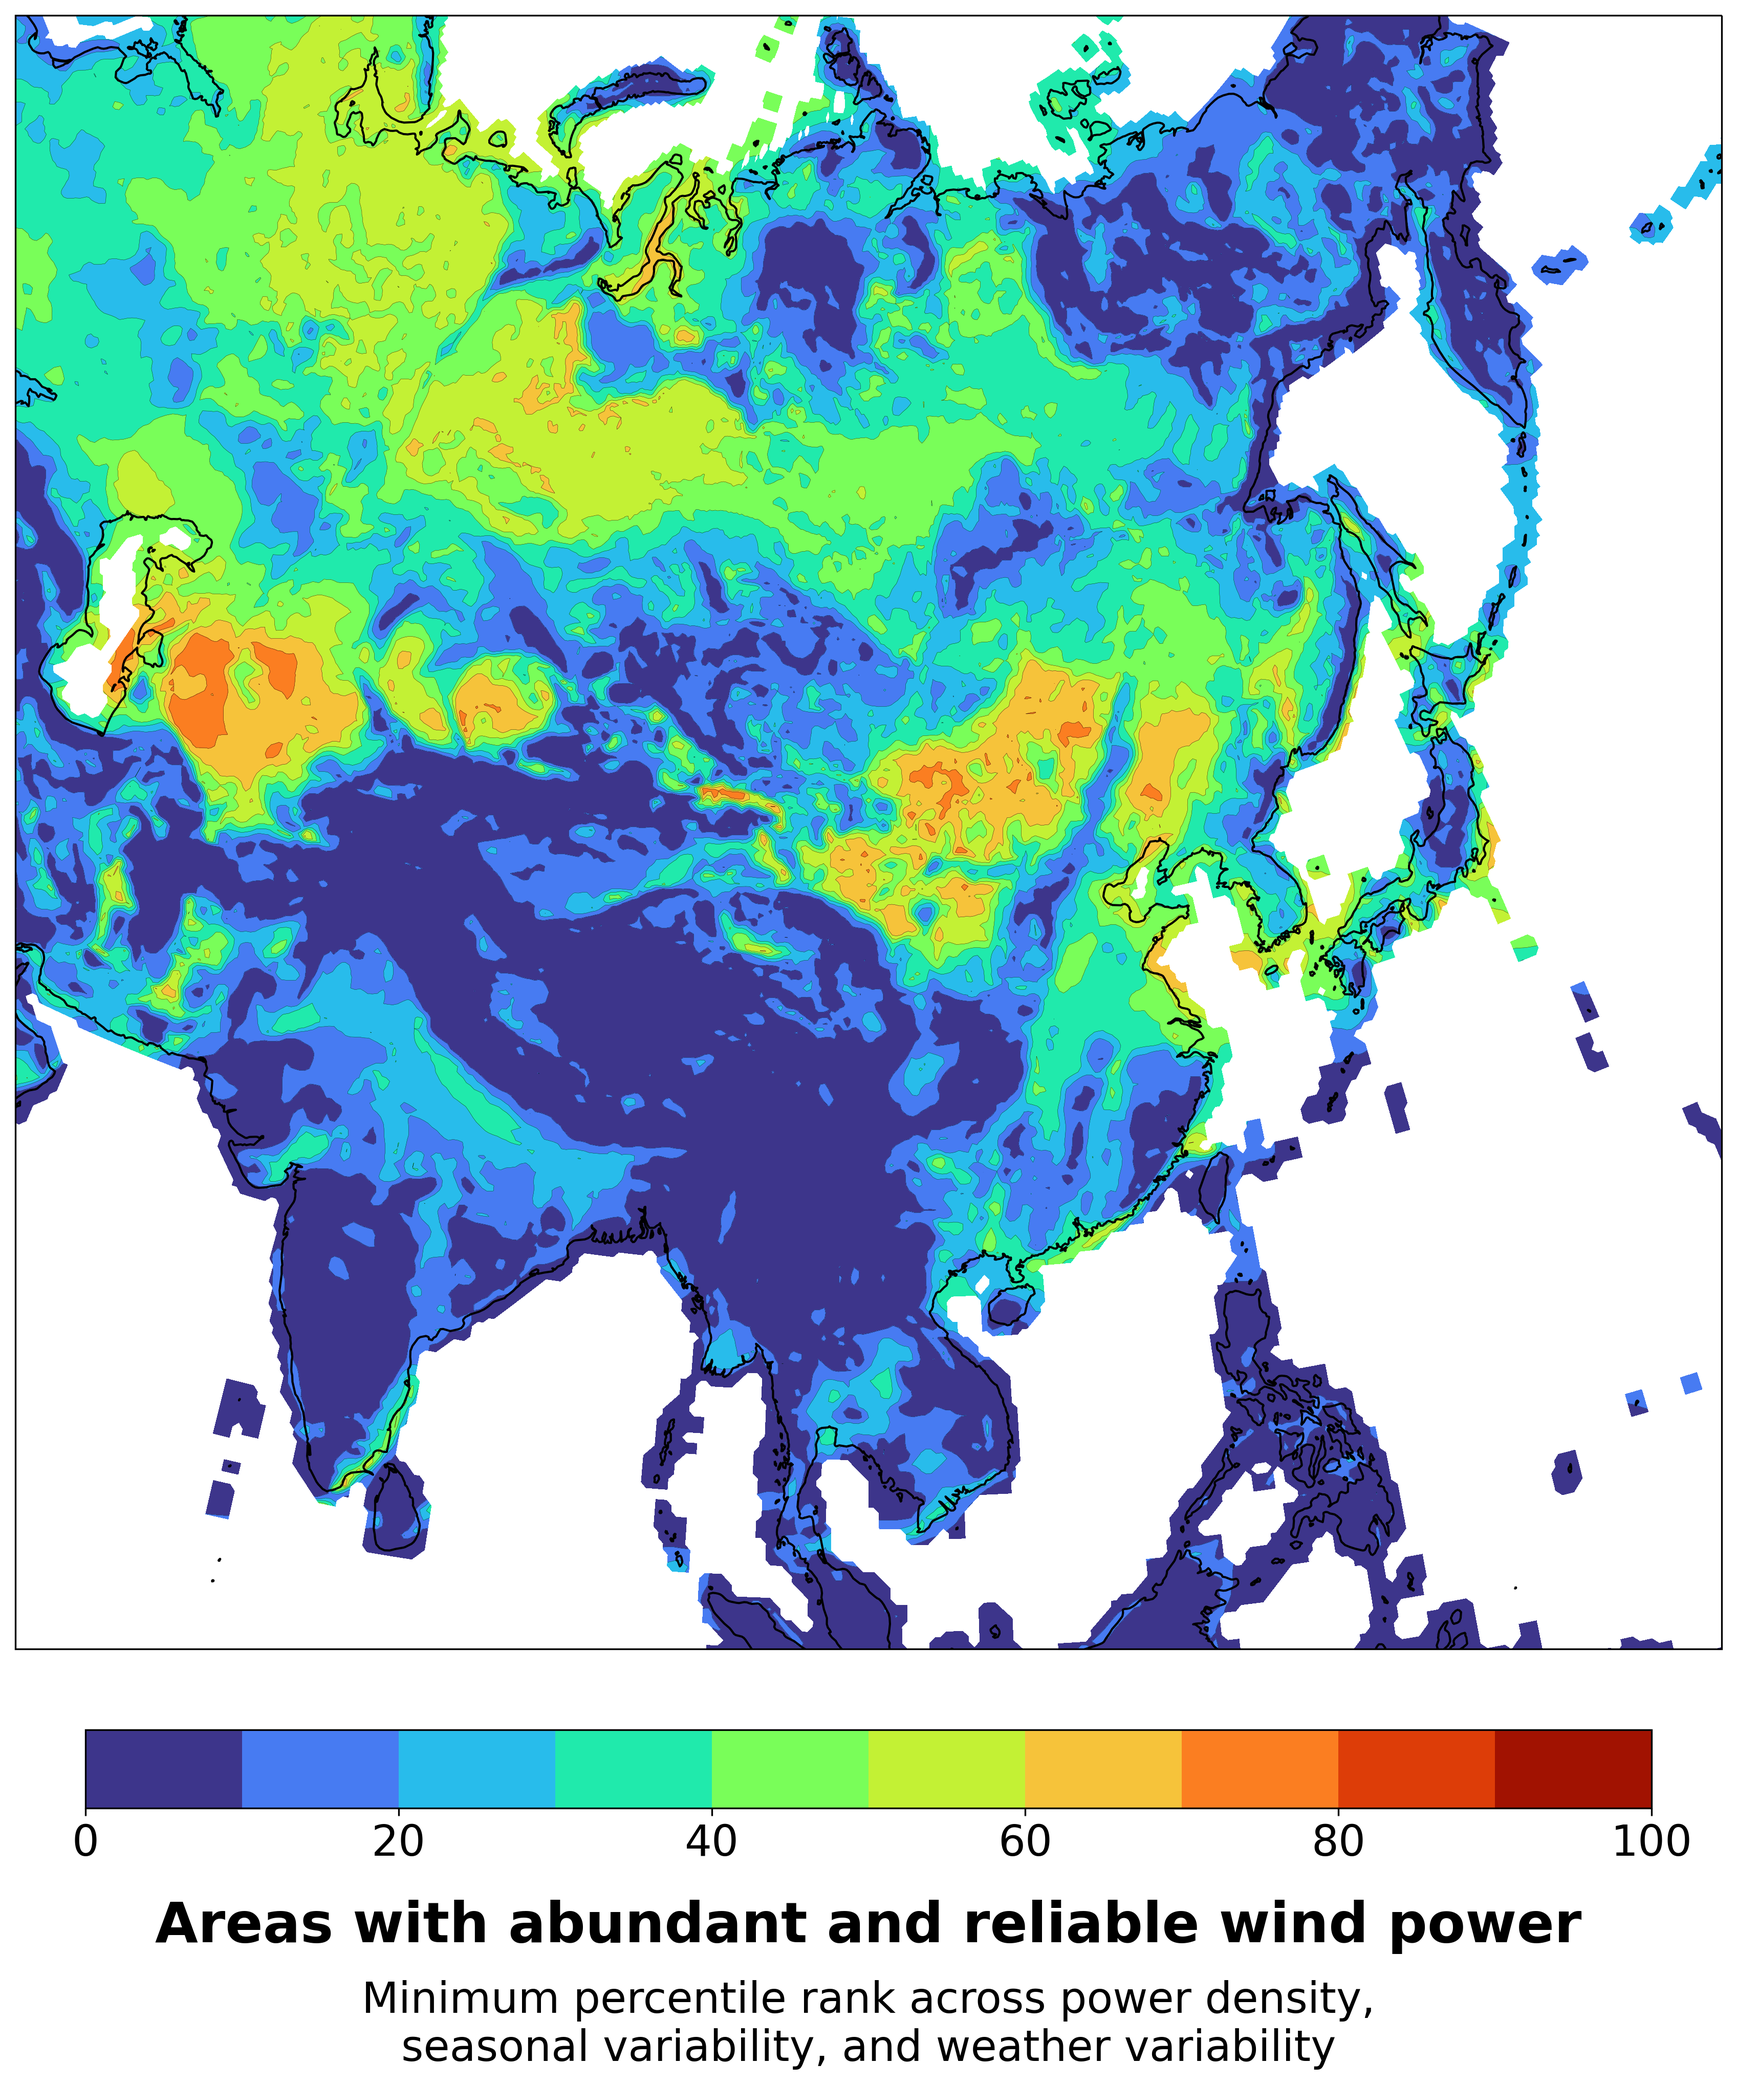
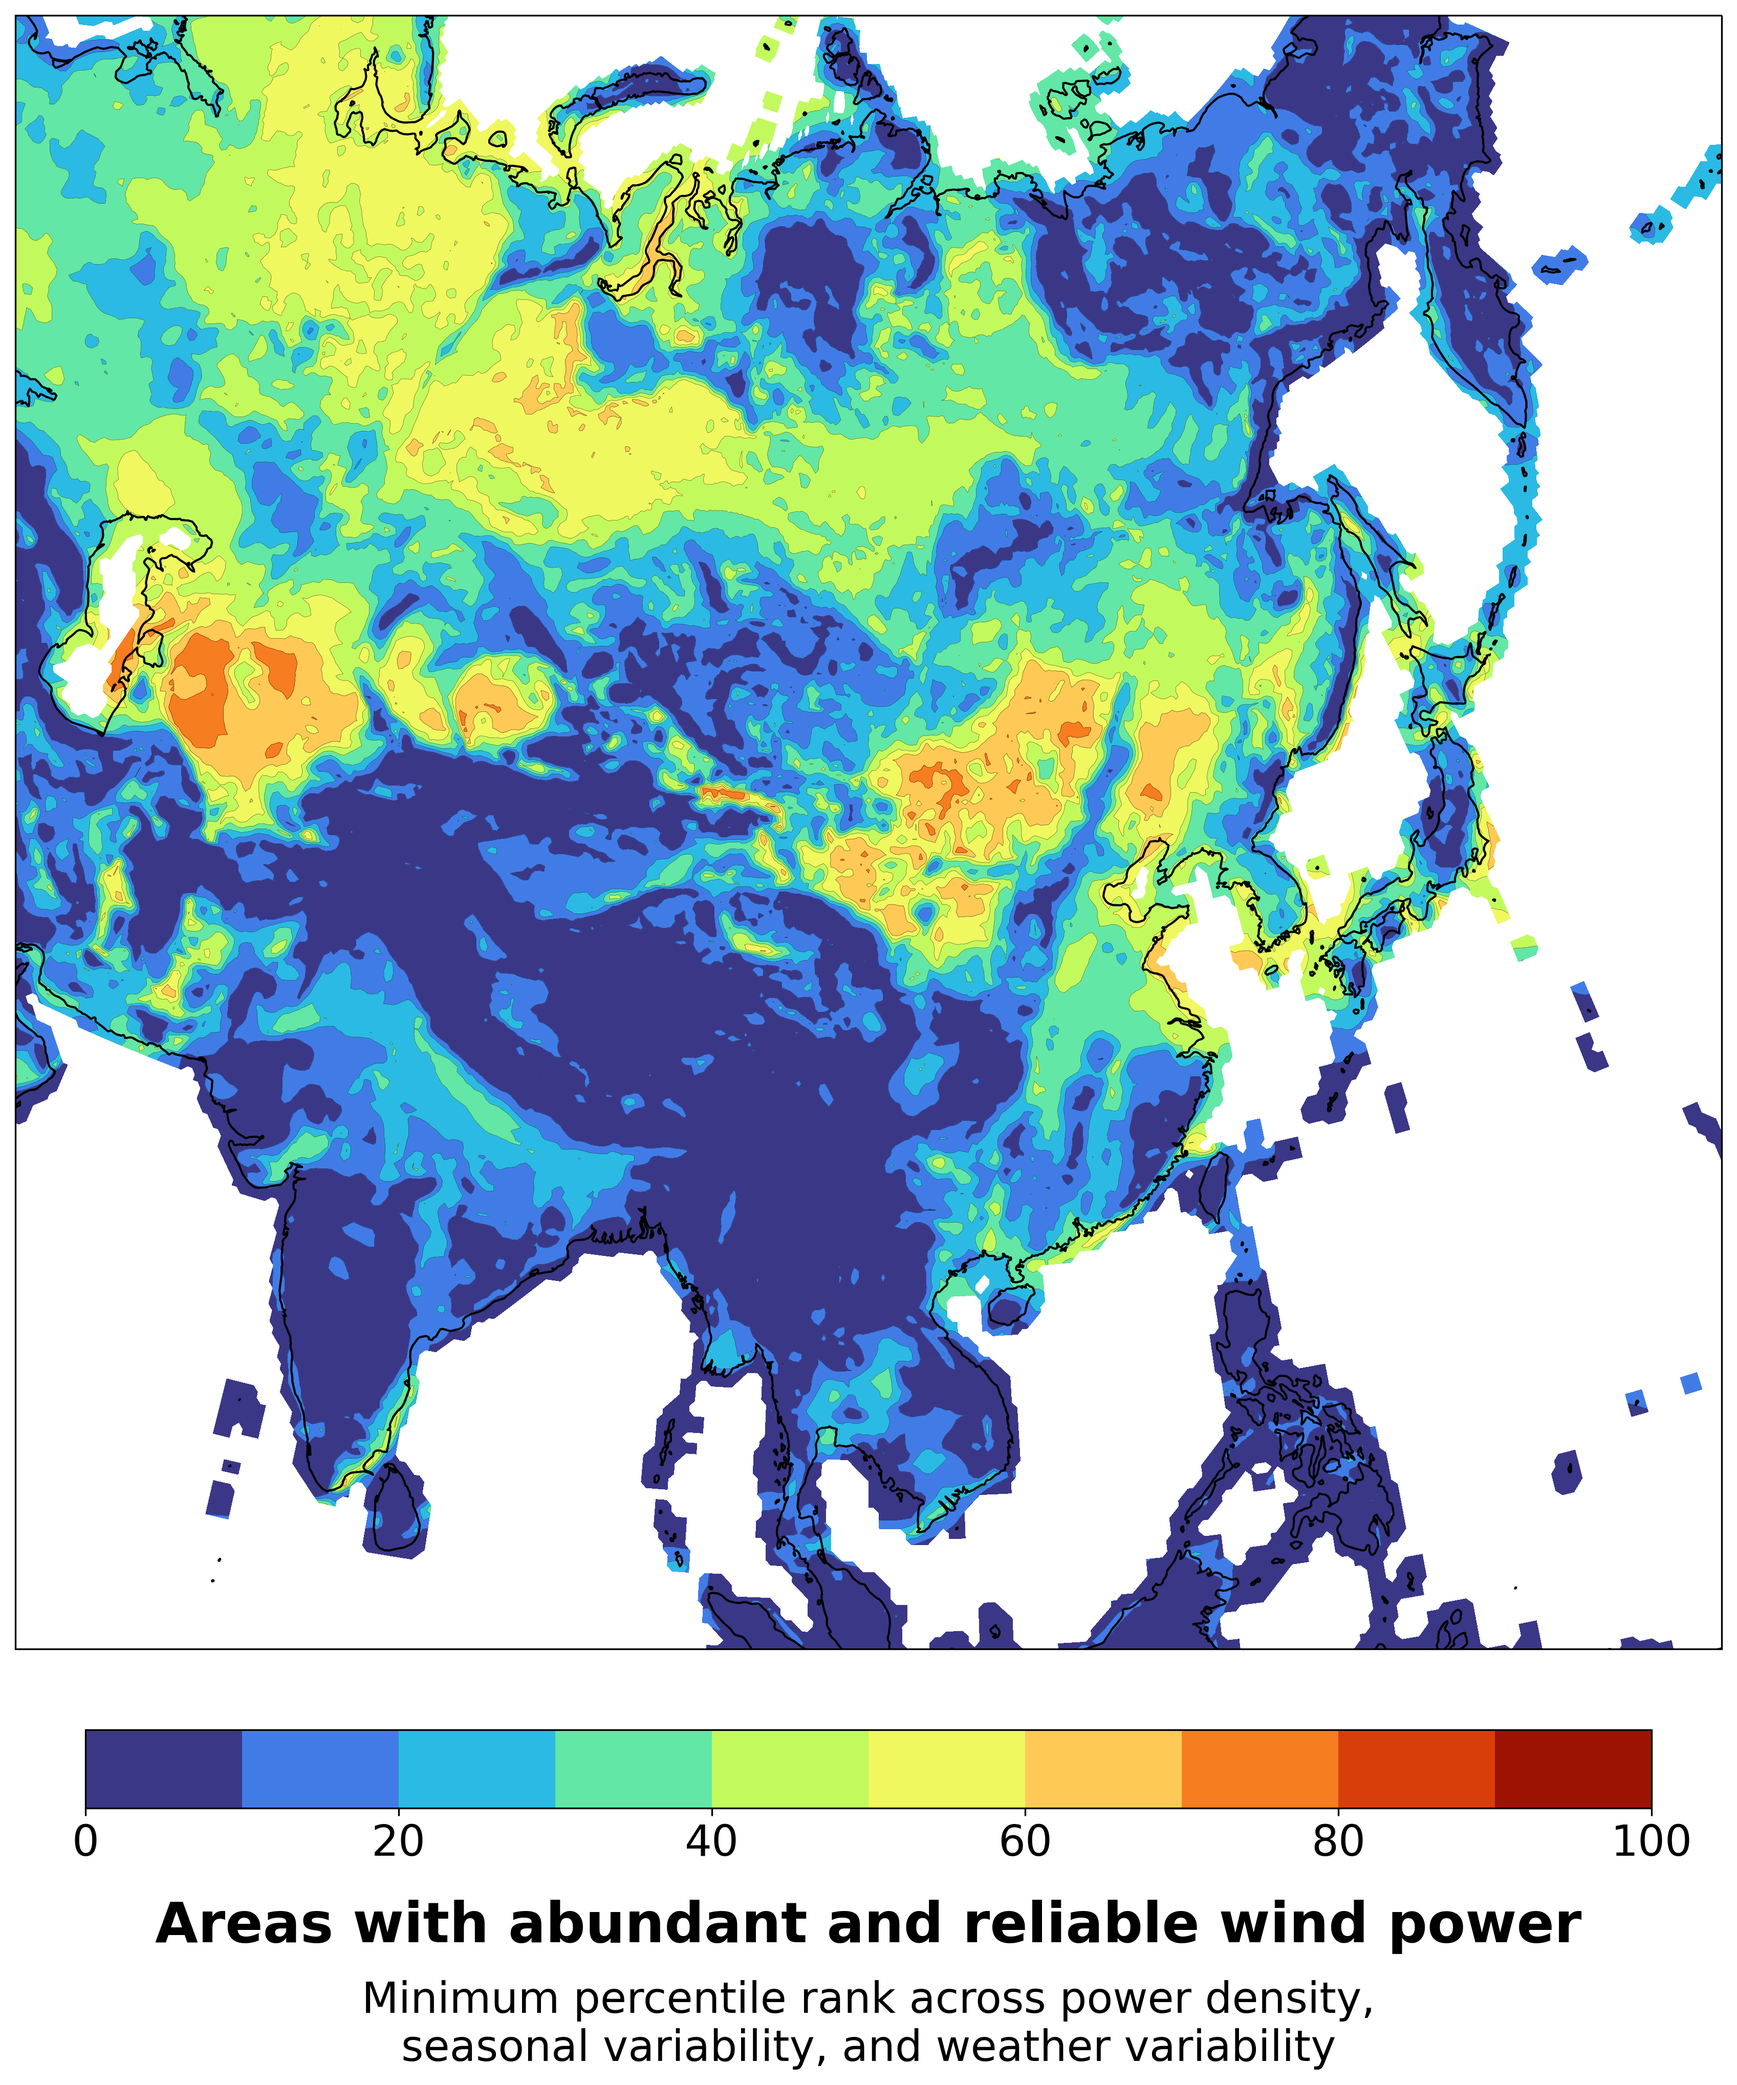
Fixed colormap.

diff --git a/scripts_and_data/figure_modules/supplementary_figure_4_9.py b/scripts_and_data/figure_modules/supplementary_figure_4_9.py
@@ -15,6 +15,7 @@ Description:
 '''
 
 import numpy as np
+import matplotlib as mpl
 import matplotlib.pyplot as plt
 import cartopy.crs as ccrs
 
@@ -63,7 +64,26 @@ def plot_supplementary_figure_4_9(lons_grid, lats_grid, minimum_percentile_rank,
 
     # Define the map levels and colormap.
     map_levels = np.linspace(0, 100, 11)
-    map_colormaps = 'turbo'
+
+    # Get the original colormap.
+    original_colormap = mpl.colormaps['turbo']
+
+    # Extract the base colors of the original colormap.
+    base_colors = original_colormap(np.linspace(0, 1, 11))
+    
+    # Modify some base colors to soften some green tones.
+    base_colors[4,:] = np.array([163, 247, 131, 255])/255 # original [70.4, 247.6, 131.7, 255]
+    base_colors[5,:] = np.array([221, 252, 60, 255])/255 # original [164.1, 252.4, 59.6, 255]
+    base_colors[6,:] = np.array([255, 244, 126, 255])/255 # original [225.2, 220.7, 55.3, 255]
+
+    # Create a custom colormap.
+    N = (len(base_colors) - 1) * 20
+    vals = np.ones((N, 4))    
+    for jj in range(len(base_colors)-1):
+        vals[int(N*jj/(len(base_colors)-1)):int(N*(jj+1)/(len(base_colors)-1)), 0] = np.linspace(base_colors[jj][0], base_colors[jj+1][0], int(N/(len(base_colors)-1)))
+        vals[int(N*jj/(len(base_colors)-1)):int(N*(jj+1)/(len(base_colors)-1)), 1] = np.linspace(base_colors[jj][1], base_colors[jj+1][1], int(N/(len(base_colors)-1)))
+        vals[int(N*jj/(len(base_colors)-1)):int(N*(jj+1)/(len(base_colors)-1)), 2] = np.linspace(base_colors[jj][2], base_colors[jj+1][2], int(N/(len(base_colors)-1)))
+    custom_colormap = mpl.colors.ListedColormap(vals)
 
     # Define the map projection and the coordinate reference system of the data to plot.
     map_projection = ccrs.Stereographic(central_longitude=map_extent[0]+(map_extent[1]-map_extent[0])/2, central_latitude=map_extent[2]+(map_extent[3]-map_extent[2])/2)
@@ -78,7 +98,7 @@ def plot_supplementary_figure_4_9(lons_grid, lats_grid, minimum_percentile_rank,
     ax.coastlines(resolution='50m')
 
     # Plot the minimum percentile rank.
-    im = ax.contourf(lons_grid, lats_grid, minimum_percentile_rank, levels=map_levels, cmap=map_colormaps, transform=data_crs)
+    im = ax.contourf(lons_grid, lats_grid, minimum_percentile_rank, levels=map_levels, cmap=custom_colormap, transform=data_crs)
 
     # Plot the contour lines.
     ax.contour(lons_grid, lats_grid, minimum_percentile_rank, levels=map_levels, colors='k', zorder=6, linewidths=0.1, transform=data_crs)

diff --git a/scripts_and_data/figure_modules/figure_2.py b/scripts_and_data/figure_modules/figure_2.py
@@ -15,6 +15,7 @@ Description:
 '''
 
 import numpy as np
+import matplotlib as mpl
 import matplotlib.pyplot as plt
 import cartopy.crs as ccrs
 
@@ -39,9 +40,28 @@ def plot_figure_2(lons_grid, lats_grid, minimum_percentile_rank):
         Minimum percentile rank across wind power density, seasonal variability and weather variability
     '''
 
-    # Define the map levels and colormap.
+    # Define the map levels.
     map_levels = np.linspace(0, 100, 11)
-    map_colormaps = 'turbo'
+
+    # Get the original colormap.
+    original_colormap = mpl.colormaps['turbo']
+
+    # Extract the base colors of the original colormap.
+    base_colors = original_colormap(np.linspace(0, 1, 11))
+    
+    # Modify some base colors to soften some green tones.
+    base_colors[4,:] = np.array([163, 247, 131, 255])/255 # original [70.4, 247.6, 131.7, 255]
+    base_colors[5,:] = np.array([221, 252, 60, 255])/255 # original [164.1, 252.4, 59.6, 255]
+    base_colors[6,:] = np.array([255, 244, 126, 255])/255 # original [225.2, 220.7, 55.3, 255]
+
+    # Create a custom colormap.
+    N = (len(base_colors) - 1) * 20
+    vals = np.ones((N, 4))    
+    for ii in range(len(base_colors)-1):
+        vals[int(N*ii/(len(base_colors)-1)):int(N*(ii+1)/(len(base_colors)-1)), 0] = np.linspace(base_colors[ii][0], base_colors[ii+1][0], int(N/(len(base_colors)-1)))
+        vals[int(N*ii/(len(base_colors)-1)):int(N*(ii+1)/(len(base_colors)-1)), 1] = np.linspace(base_colors[ii][1], base_colors[ii+1][1], int(N/(len(base_colors)-1)))
+        vals[int(N*ii/(len(base_colors)-1)):int(N*(ii+1)/(len(base_colors)-1)), 2] = np.linspace(base_colors[ii][2], base_colors[ii+1][2], int(N/(len(base_colors)-1)))
+    custom_colormap = mpl.colors.ListedColormap(vals)
 
     # Define the map projection and the coordinate reference system of the data to plot.
     map_projection = ccrs.Robinson(central_longitude=0, globe=None)
@@ -54,7 +74,7 @@ def plot_figure_2(lons_grid, lats_grid, minimum_percentile_rank):
     ax.coastlines()
 
     # Plot the minimum percentile rank.
-    im = ax.contourf(lons_grid, lats_grid, minimum_percentile_rank, levels=map_levels, cmap=map_colormaps, transform=data_crs)
+    im = ax.contourf(lons_grid, lats_grid, minimum_percentile_rank, levels=map_levels, cmap=custom_colormap, transform=data_crs)
 
     # Plot the contour lines.
     ax.contour(lons_grid, lats_grid, minimum_percentile_rank, levels=map_levels, colors='k', zorder=6, linewidths=0.1, transform=data_crs)
